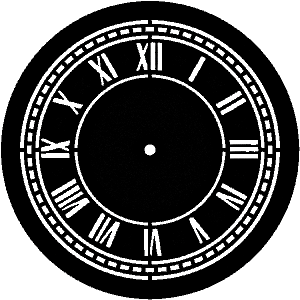
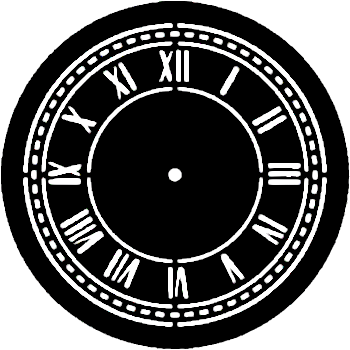
Different lengths for hour and minute hands and hour hand follows minute precision

diff --git a/anclc.py b/anclc.py
@@ -13,7 +13,12 @@ class main(tkinter.Tk):
         tkinter.Tk.__init__(self)
         self.x = can_width/2  # Center Point x
         self.y = can_height/4  # Center Point
-        self.length = 100  # Stick Length
+        self.minute_length = 100  # Stick Length
+        self.hour_length = 60
+        self.second_length =  110
+        self.minute_width = 4
+        self.hour_width = 8
+        self.second_width = 2
         self.creating_all_function_trigger()
 
     # Creating Trigger For Other Functions
@@ -25,7 +30,7 @@ class main(tkinter.Tk):
 
     # Creating Background
     def creating_background_(self):
-        self.image = tkinter.PhotoImage(file='clock_face.png', height=300, width=300, )
+        self.image = tkinter.PhotoImage(file='clock_face.png')
         self.canvas.create_image(can_width/2, can_height/4, image=self.image)
         return
 
@@ -38,10 +43,19 @@ class main(tkinter.Tk):
     # Creating Moving Sticks
     def creating_sticks(self):
         self.sticks = []
-        for i in range(3):
-            store = self.canvas.create_line(
-                self.x, self.y, self.x+self.length, self.y+self.length, width=4, fill='white')
-            self.sticks.append(store)
+
+        store = self.canvas.create_line(
+            self.x, self.y, self.x+self.hour_length, self.y+self.hour_length, width=self.hour_width, fill='white')
+        self.sticks.append(store)
+        
+        store = self.canvas.create_line(
+            self.x, self.y, self.x+self.minute_length, self.y+self.minute_length, width=self.minute_width, fill='white')
+        self.sticks.append(store)
+
+        store = self.canvas.create_line(
+            self.x, self.y, self.x+self.second_length, self.y+self.second_length, width=self.second_width, fill='white')
+        self.sticks.append(store)
+
         return
 
     # Function Need Regular Update
@@ -54,8 +68,20 @@ class main(tkinter.Tk):
         for n, i in enumerate(now):
             x, y = self.canvas.coords(self.sticks[n])[0:2]
             cr = [x, y]
-            cr.append(self.length*math.cos(math.radians(i*6)-math.radians(90))+self.x)
-            cr.append(self.length*math.sin(math.radians(i*6)-math.radians(90))+self.y)
+            length = 0
+            if n == 0:
+                length = self.hour_length
+            elif n == 1:
+                length = self.minute_length
+
+            else:
+                length = self.second_length
+            if n == 0:
+                cr.append(length*math.cos(math.radians(i*6 + now[1]/2)-math.radians(90))+self.x)
+                cr.append(length*math.sin(math.radians(i*6 + now[1]/2)-math.radians(90))+self.y)
+            else:
+                cr.append(length*math.cos(math.radians(i*6)-math.radians(90))+self.x)
+                cr.append(length*math.sin(math.radians(i*6)-math.radians(90))+self.y)
             self.canvas.coords(self.sticks[n], tuple(cr))
         return
 
